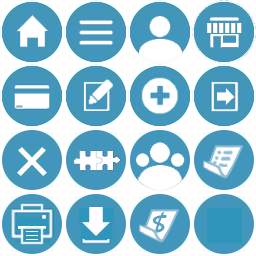
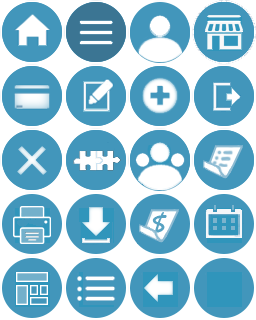
design fixes

diff --git a/web/view/theme/spg/assets/spg-theme.css b/web/view/theme/spg/assets/spg-theme.css
@@ -128,9 +128,10 @@ body.spg-theme ul.page-menu > li > ul {
 body.spg-theme ul.page-menu > li > a {
 }
 body.spg-theme ul.page-menu > li > ul > li {
-    max-width: 10em;
+    /* max-width: 10em; */
     font-size: smaller;
 }
+
 body.spg-theme .page-menu li {
     display: block;
     clear: both;
@@ -153,7 +154,7 @@ body.spg-theme ul.page-menu > li > a.current + ul {
 
 body.spg-theme .menu-icon {
     background: url(img/nav_icons.png) no-repeat top left;
-    background-size: 192px 192px;
+    background-size: 192px 240px;
     width: 48px;
     height: 48px;
     margin-bottom: -17px;
@@ -168,12 +169,13 @@ body.spg-theme .menu-icon {
 body.spg-theme a:hover .menu-icon               {
     opacity: 0.5;
 }
+
 body.spg-theme .menu-icon.menu-icon-toggle      {
     background-position: -32px 0;
-    background-size: 128px 128px;
+    background-size: 128px 160px;
     width: 32px;
     height: 32px;
-    margin: -8px 8px;
+    margin: -8px 8px -7px 8px;
     transition: transform 0.5s;
 }
 
@@ -181,12 +183,12 @@ body.spg-theme.menu-small .menu-icon.menu-icon-toggle {
     transform: rotate(90deg);
     transition: transform 0.5s;
 }
-body.spg-theme .menu-icon.menu-icon-dashboard   { background-position: 0 0; }
+body.spg-theme .menu-icon.menu-icon-dashboard   {background-position: 0 -192px;}
 body.spg-theme .menu-icon.menu-icon-charge      { background-position: 0 -48px;}
 body.spg-theme .menu-icon.menu-icon-account     { background-position: 0 0; }
-body.spg-theme .menu-icon.menu-icon-list        { background-position: -48px 0; }
+body.spg-theme .menu-icon.menu-icon-list        {background-position: -48px -192px;}
 body.spg-theme .menu-icon.menu-icon-transaction { background-position: -144px -96px;}
-body.spg-theme .menu-icon.menu-icon-subscription{ background-position: -144px -96px;}
+body.spg-theme .menu-icon.menu-icon-subscription{background-position: -144px -144px;}
 body.spg-theme .menu-icon.menu-icon-merchant    { background-position: -144px 0;}
 body.spg-theme .menu-icon.menu-icon-user        { background-position: -96px -96px;}
 body.spg-theme .menu-icon.menu-icon-integration { background-position: -48px -96px;}
@@ -202,7 +204,7 @@ body.spg-theme .menu-icon.menu-icon-receipt     {background-position: -96px -144
 
 body.spg-theme .menu-button-toggle {
     border-bottom: 1px solid #666;
-    background-color: #CCC;
+    background-color: #bcc5d1;
 }
 
 
@@ -226,17 +228,17 @@ body.spg-theme a.button.small {
     padding: 0.8em 0.5em 0.6em 0.5em;
 }
 body.spg-theme a.button:hover {
-    /* background-color: #d4e7ec; */
+    background-color: #d4e7ec;
     /* color: #ffffff; */
     font-weight: bold;
 }
 body.spg-theme a.button.current {
-    background-color: #3095bb;
+    background-color: #d4e7ec;
     font-weight: bold;
-    color: #DDD;
+    color: #4296bb;
 }
 body.spg-theme a.current + ul > li > a.current {
-    background-color: rgba(48, 149, 187, 0.78);
+    background-color: rgb(212, 231, 236);
 }
 body.spg-theme a.button[disabled] {
     color: gray;
@@ -285,7 +287,7 @@ body.spg-theme .bread-crumbs {
     margin: -8px 0 0 0;
     /* background-color: #f6f9fc; */
     position: relative;
-    background-color: #CCC;
+    background-color: #bcc5d1;
     height: 24px;
 }
 
@@ -335,7 +337,7 @@ body.layout-vertical.spg-theme nav.page-menu {
 
 body.spg-theme form.themed {
     /* background-color: #f0f4f6; */
-    /* background-color: #FAFAFA; */
+    background-color: #e1ebf1;
     /* border: 1px inset #bcc5d1; */
     /* border-radius: 0.6em; */
     /* max-width: 800px; */
@@ -345,7 +347,7 @@ body.spg-theme form.themed {
 }
 
 body.spg-theme form.themed a {
-    text-decoration: none;
+    /* text-decoration: none; */
 }
 
 body.spg-theme form.themed > fieldset,
@@ -372,6 +374,7 @@ body.spg-theme fieldset.themed > legend,
 body.spg-theme legend.themed {
     font-weight: bolder;
     background: #FFF;
+    /* text-align: center; */
     border-radius: 10px;
     padding: 0.4em 0.8em 0 0.8em;
     /* border-bottom: 1px inset #b1ced6; */
@@ -559,7 +562,7 @@ fieldset.pagination {
 }
 
 .pagination a.current {
-    background-color: #AAA;
+    background-color: #bcc5d1;
 }
 
 

diff --git a/web/transaction/view/assets/charge.css b/web/transaction/view/assets/charge.css
@@ -50,7 +50,7 @@ form[name=form-transaction-charge] .swipe-fullscreen-box-container {
     /* height: 37%; */
     top: 27%;
     left: 5%;
-    background-color: rgba(197, 193, 204, 0.95);
+    background-color: rgb(188, 197, 209);
     /* opacity: 0.9; */
     border-radius: 1em;
     padding: 1.5em 1em;
